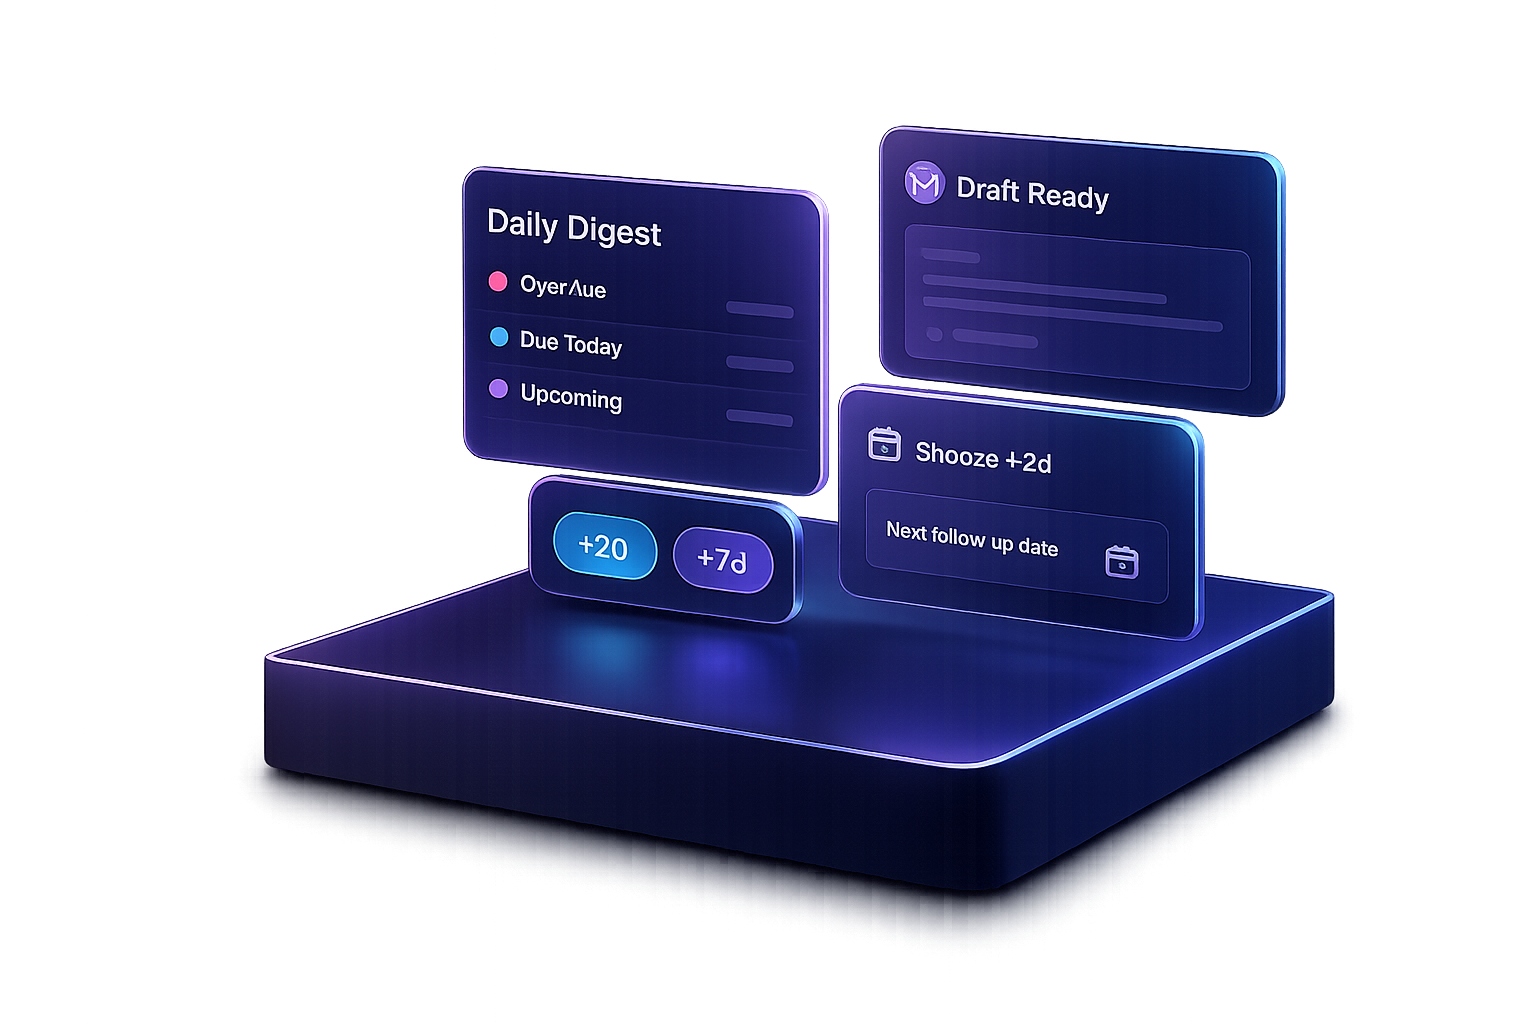
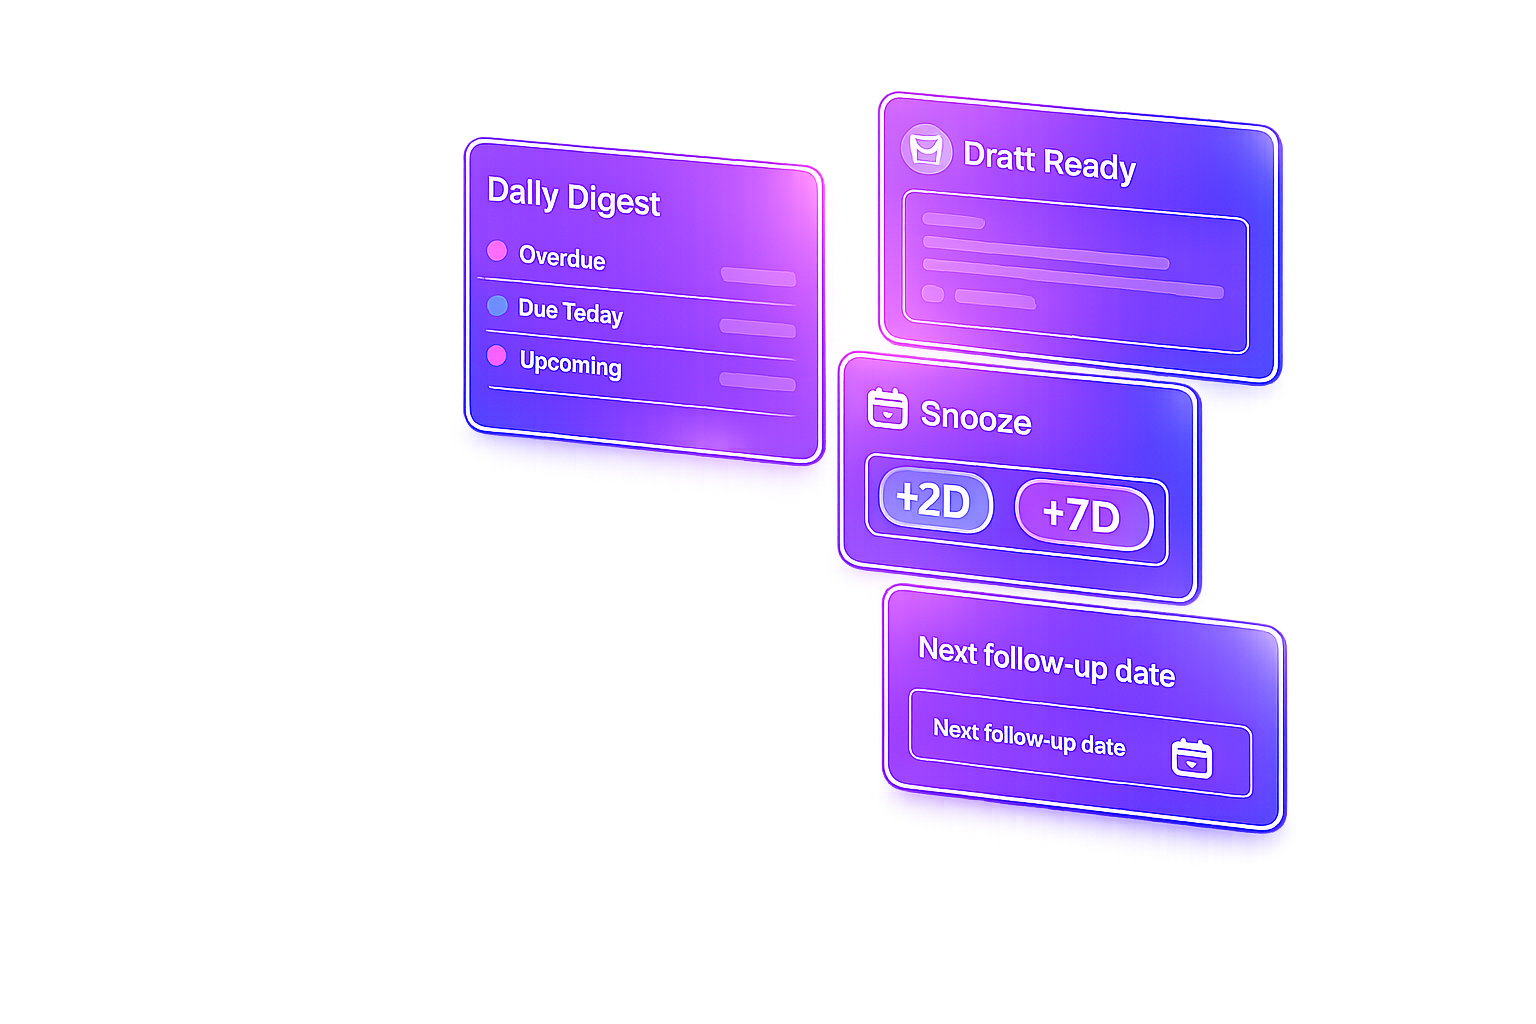
style: replace hero artwork and increase hero image scale

diff --git a/src/app/page.module.css b/src/app/page.module.css
@@ -204,9 +204,9 @@
 
 .heroImage {
   width: 100%;
-  max-width: 680px;
+  max-width: 780px;
   height: auto;
-  transform: translateX(10px) scale(1.08);
+  transform: translateX(24px) scale(1.15);
   filter: drop-shadow(0 30px 80px rgba(0, 0, 0, 0.35));
   box-shadow: none;
 }
